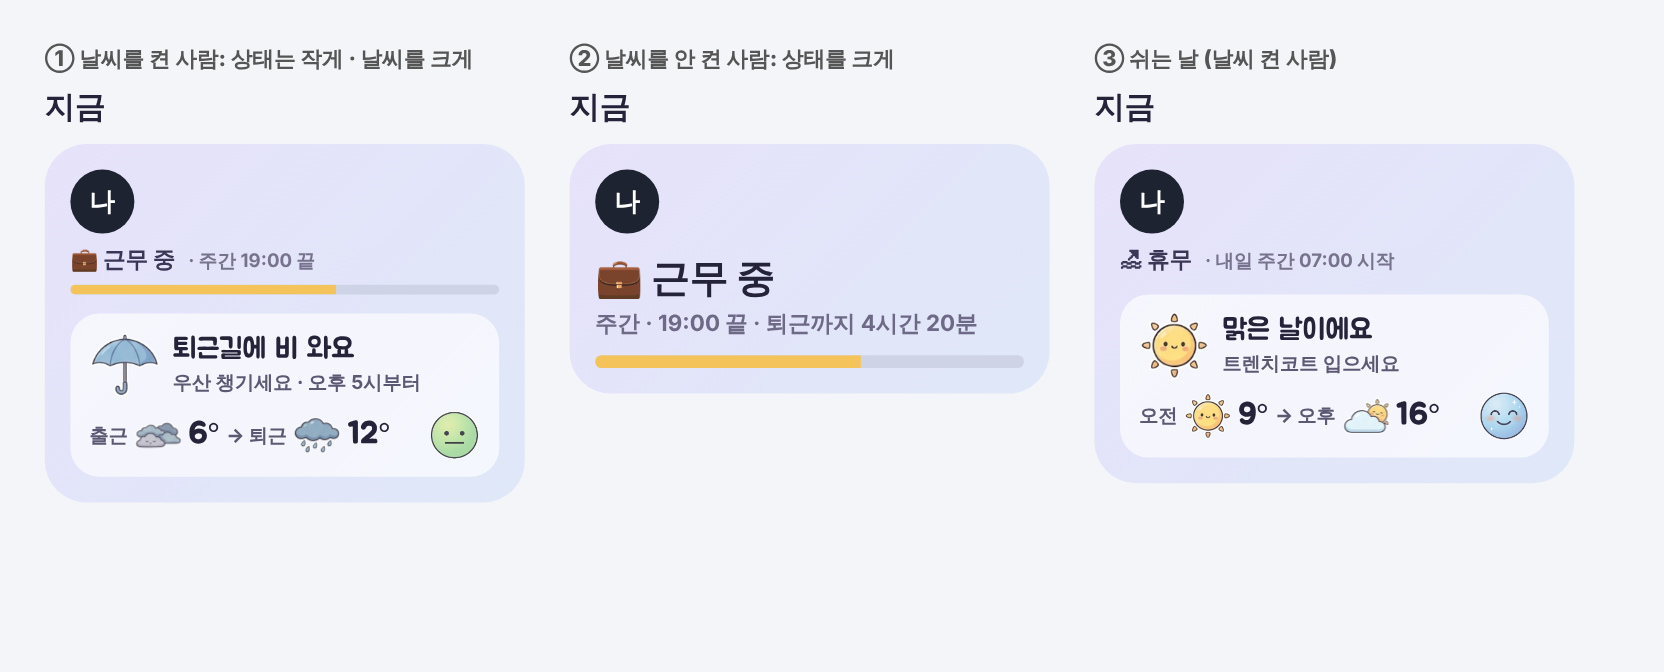
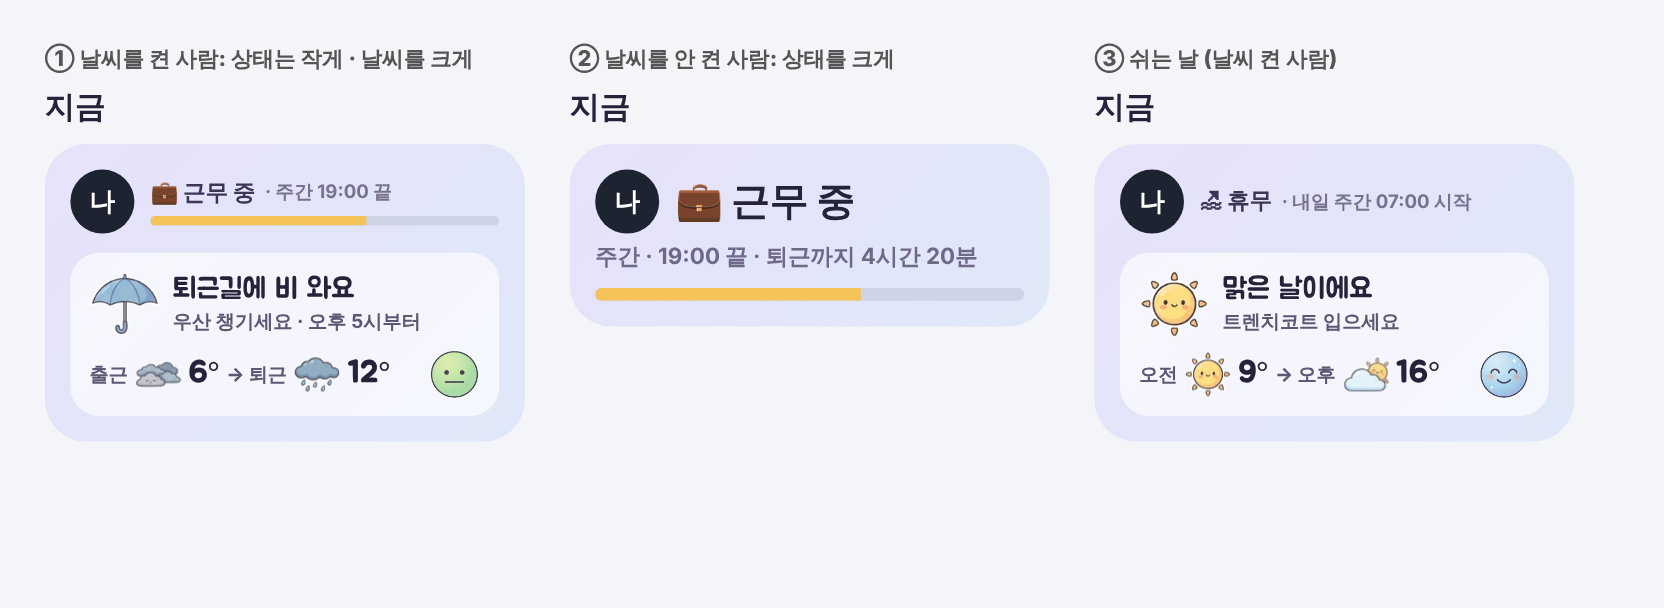
시안: 내 카드 상태를 나 옆으로
Claude-Session: https://claude.ai/code/session_01JTBnEvptp151JygSjZNCTX

diff --git a/design/family/mecard-mock.html b/design/family/mecard-mock.html
@@ -4,7 +4,7 @@ body{margin:0;background:#f4f5f8;font-family:system-ui,'Noto Sans CJK KR',sans-s
 .col{width:300px}.cap{font-size:13.5px;font-weight:800;color:#555;margin-bottom:8px}.h{font-size:19px;font-weight:800;margin:0 0 10px}
 .card{border-radius:26px;padding:16px;background:linear-gradient(135deg,#e6e2fa,#dfe8f8)}
 .me{display:inline-flex;width:40px;height:40px;border-radius:50%;background:#1d2330;color:#fff;font-weight:800;align-items:center;justify-content:center}
-.st{display:flex;align-items:center;gap:8px;margin-top:8px;font-size:14px;font-weight:800;color:#3a3756}.st small{font-weight:700;color:#77738f}
+.top{display:flex;align-items:center;gap:10px}.top .bar{flex:1;margin-top:5px}.st{display:flex;align-items:center;gap:6px;margin-top:0;font-size:14px;font-weight:800;color:#3a3756}.st small{font-weight:700;color:#77738f}
 .bar{height:6px;border-radius:4px;background:#cfd3e6;margin-top:6px;overflow:hidden}.bar i{display:block;height:100%;width:62%;background:#f4c45a}
 .wx{margin-top:12px;background:rgba(255,255,255,.65);border-radius:18px;padding:10px 12px}
 .wx .k{display:flex;align-items:center;gap:8px}.wx .k img{width:44px}.wx .k b{font-family:J;font-weight:400;font-size:18px}.wx .k small{display:block;font-size:12px;font-weight:700;color:#5c5874}
@@ -13,18 +13,16 @@ body{margin:0;background:#f4f5f8;font-family:system-ui,'Noto Sans CJK KR',sans-s
 .bar2{height:8px;border-radius:5px;background:#cfd3e6;margin-top:10px;overflow:hidden}.bar2 i{display:block;height:100%;width:62%;background:#f4c45a}
 </style></head><body>
 <div class="col"><div class="cap">① 날씨를 켠 사람: 상태는 작게 · 날씨를 크게</div><div class="h">지금</div><div class="card">
-<span class="me">나</span>
-<div class="st">💼 근무 중 <small>· 주간 19:00 끝</small></div><div class="bar"><i></i></div>
+<div class="top"><span class="me">나</span><div style="flex:1"><div class="st">💼 근무 중 <small>· 주간 19:00 끝</small></div><div class="bar"><i></i></div></div></div>
 <div class="wx"><div class="k"><img src="../weather/clean2/wear/umbrella.png"><div><b>퇴근길에 비 와요</b><small>우산 챙기세요 · 오후 5시부터</small></div></div>
 <div class="r">출근<img src="../weather/clean2/sky/cloudy.png"><em>6°</em> → 퇴근<img src="../weather/clean2/sky/rain.png"><em>12°</em><img class="f" src="../weather/clean2/faces/3.png"></div></div>
 </div></div>
 <div class="col"><div class="cap">② 날씨를 안 켠 사람: 상태를 크게</div><div class="h">지금</div><div class="card">
-<span class="me">나</span>
-<div class="big">💼 근무 중<small>주간 · 19:00 끝 · 퇴근까지 4시간 20분</small></div><div class="bar2"><i></i></div>
+<div class="top"><span class="me">나</span><div class="big" style="margin-top:0">💼 근무 중</div></div>
+<div class="big" style="margin-top:6px"><small>주간 · 19:00 끝 · 퇴근까지 4시간 20분</small></div><div class="bar2"><i></i></div>
 </div></div>
 <div class="col"><div class="cap">③ 쉬는 날 (날씨 켠 사람)</div><div class="h">지금</div><div class="card">
-<span class="me">나</span>
-<div class="st">🏖 휴무 <small>· 내일 주간 07:00 시작</small></div>
+<div class="top"><span class="me">나</span><div class="st">🏖 휴무 <small>· 내일 주간 07:00 시작</small></div></div>
 <div class="wx"><div class="k"><img src="../weather/clean2/sky/sun.png"><div><b>맑은 날이에요</b><small>트렌치코트 입으세요</small></div></div>
 <div class="r">오전<img src="../weather/clean2/sky/sun.png"><em>9°</em> → 오후<img src="../weather/clean2/sky/partly.png"><em>16°</em><img class="f" src="../weather/clean2/faces/1.png"></div></div>
 </div></div>

diff --git a/docs/TODO.md b/docs/TODO.md
@@ -2117,4 +2117,4 @@
 ## 다음 빌드 (정함 · 아직 안 만듦) — 근무 시간 한 곳 · 가족 탭 내 카드 (시안 design/family/mecard-mock)
 - 근무 시간은 근무 패턴 화면 "🕐 근무 시간 (선택)" 한 곳 (출근 · 퇴근) · 예전 자세한 화면(`openTimesPage`: 식사 · 쉬는 시간 · 나서기 · 귀가 · 수면)과 "자세히" 줄 없앰 · 가족 탭 내 카드 · 날씨 설정 시간 줄을 누르면 근무 패턴 화면 근무 시간 칸 펼친 채로
 - `myStatus` 를 세 가지만: 근무 중(○○ · 19:00 끝 + 막대) / 쉬는 중(내일 ○○ · 07:00 시작) / 휴무 — 점심 "00:00까지" 오류도 같이 사라짐
-- 가족 탭 내 카드: 날씨 켠 사람 = 상태 한 줄 작게 + 날씨 칸 크게(결론 · 출근 → 퇴근 그림 · 기온 · 미세먼지 얼굴) / 날씨 안 켠 사람 = 상태 크게(퇴근까지 남은 시간 포함)
+- 가족 탭 내 카드: 상태는 "나" 동그라미 옆으로(한 줄 줄임) · 날씨 켠 사람 = 상태 한 줄 작게 + 날씨 칸 크게(결론 · 출근 → 퇴근 그림 · 기온 · 미세먼지 얼굴) / 날씨 안 켠 사람 = 상태 크게(퇴근까지 남은 시간 포함)
